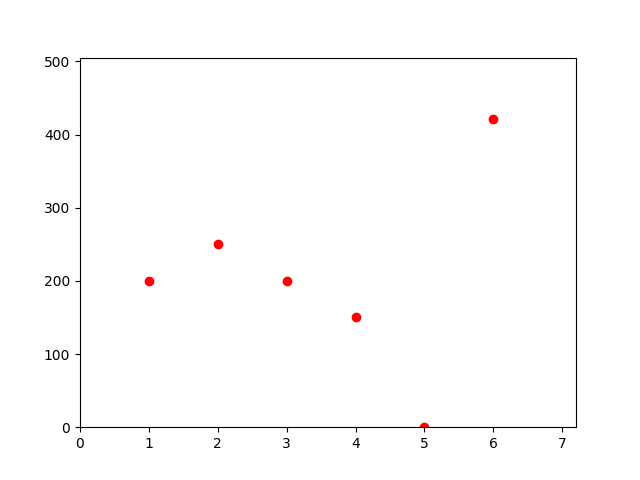
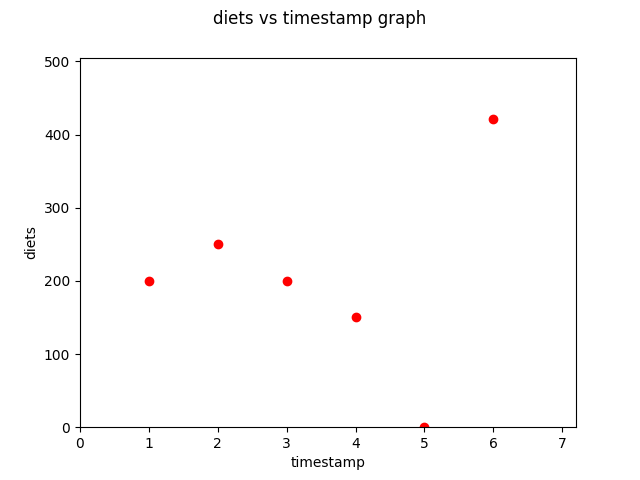
added labels to plots

Changed region(s): [[0.3125, 0.0312, 0.6562, 0.0625], [0.4375, 0.9375, 0.5625, 0.9688], [0.0312, 0.4688, 0.0625, 0.5312]]

diff --git a/tracking_analysis.py b/tracking_analysis.py
@@ -5,7 +5,7 @@ from IPython import embed
 from matplotlib import pyplot as plt
 import numpy as np
 
-def graph(x_values, y_values, a) :
+def graph(x_values, y_values, a, x_label, y_label) :
 	#needs debug
 	plt.plot(x_values, y_values, 'ro')
 	maxx=x_values[0]
@@ -20,8 +20,11 @@ def graph(x_values, y_values, a) :
 	
 	plt.axis([0, 1.2*maxx, 0, 1.2*maxy])
 	save_location = 'static/output/output%d.png' % a
+	plt.suptitle(y_label+" vs "+x_label+" graph")
+	plt.xlabel(x_label)
+	plt.ylabel(y_label)
   	plt.savefig(save_location)
-  	plt.show()
+  	plt.show() #this clears the canvas
   	print('Saved image to %s' % save_location)
 
 
@@ -62,7 +65,7 @@ for x in range (column_number):
 		x_axis.append(entire_int_table[a][index])
 	for a in range (row_number):
 		y_axis.append( entire_int_table[a][x])
-	graph (x_axis, y_axis, x)
+	graph (x_axis, y_axis, x, columns[0][index], columns[0][x])
 
 cur.close()
 conn.close()
